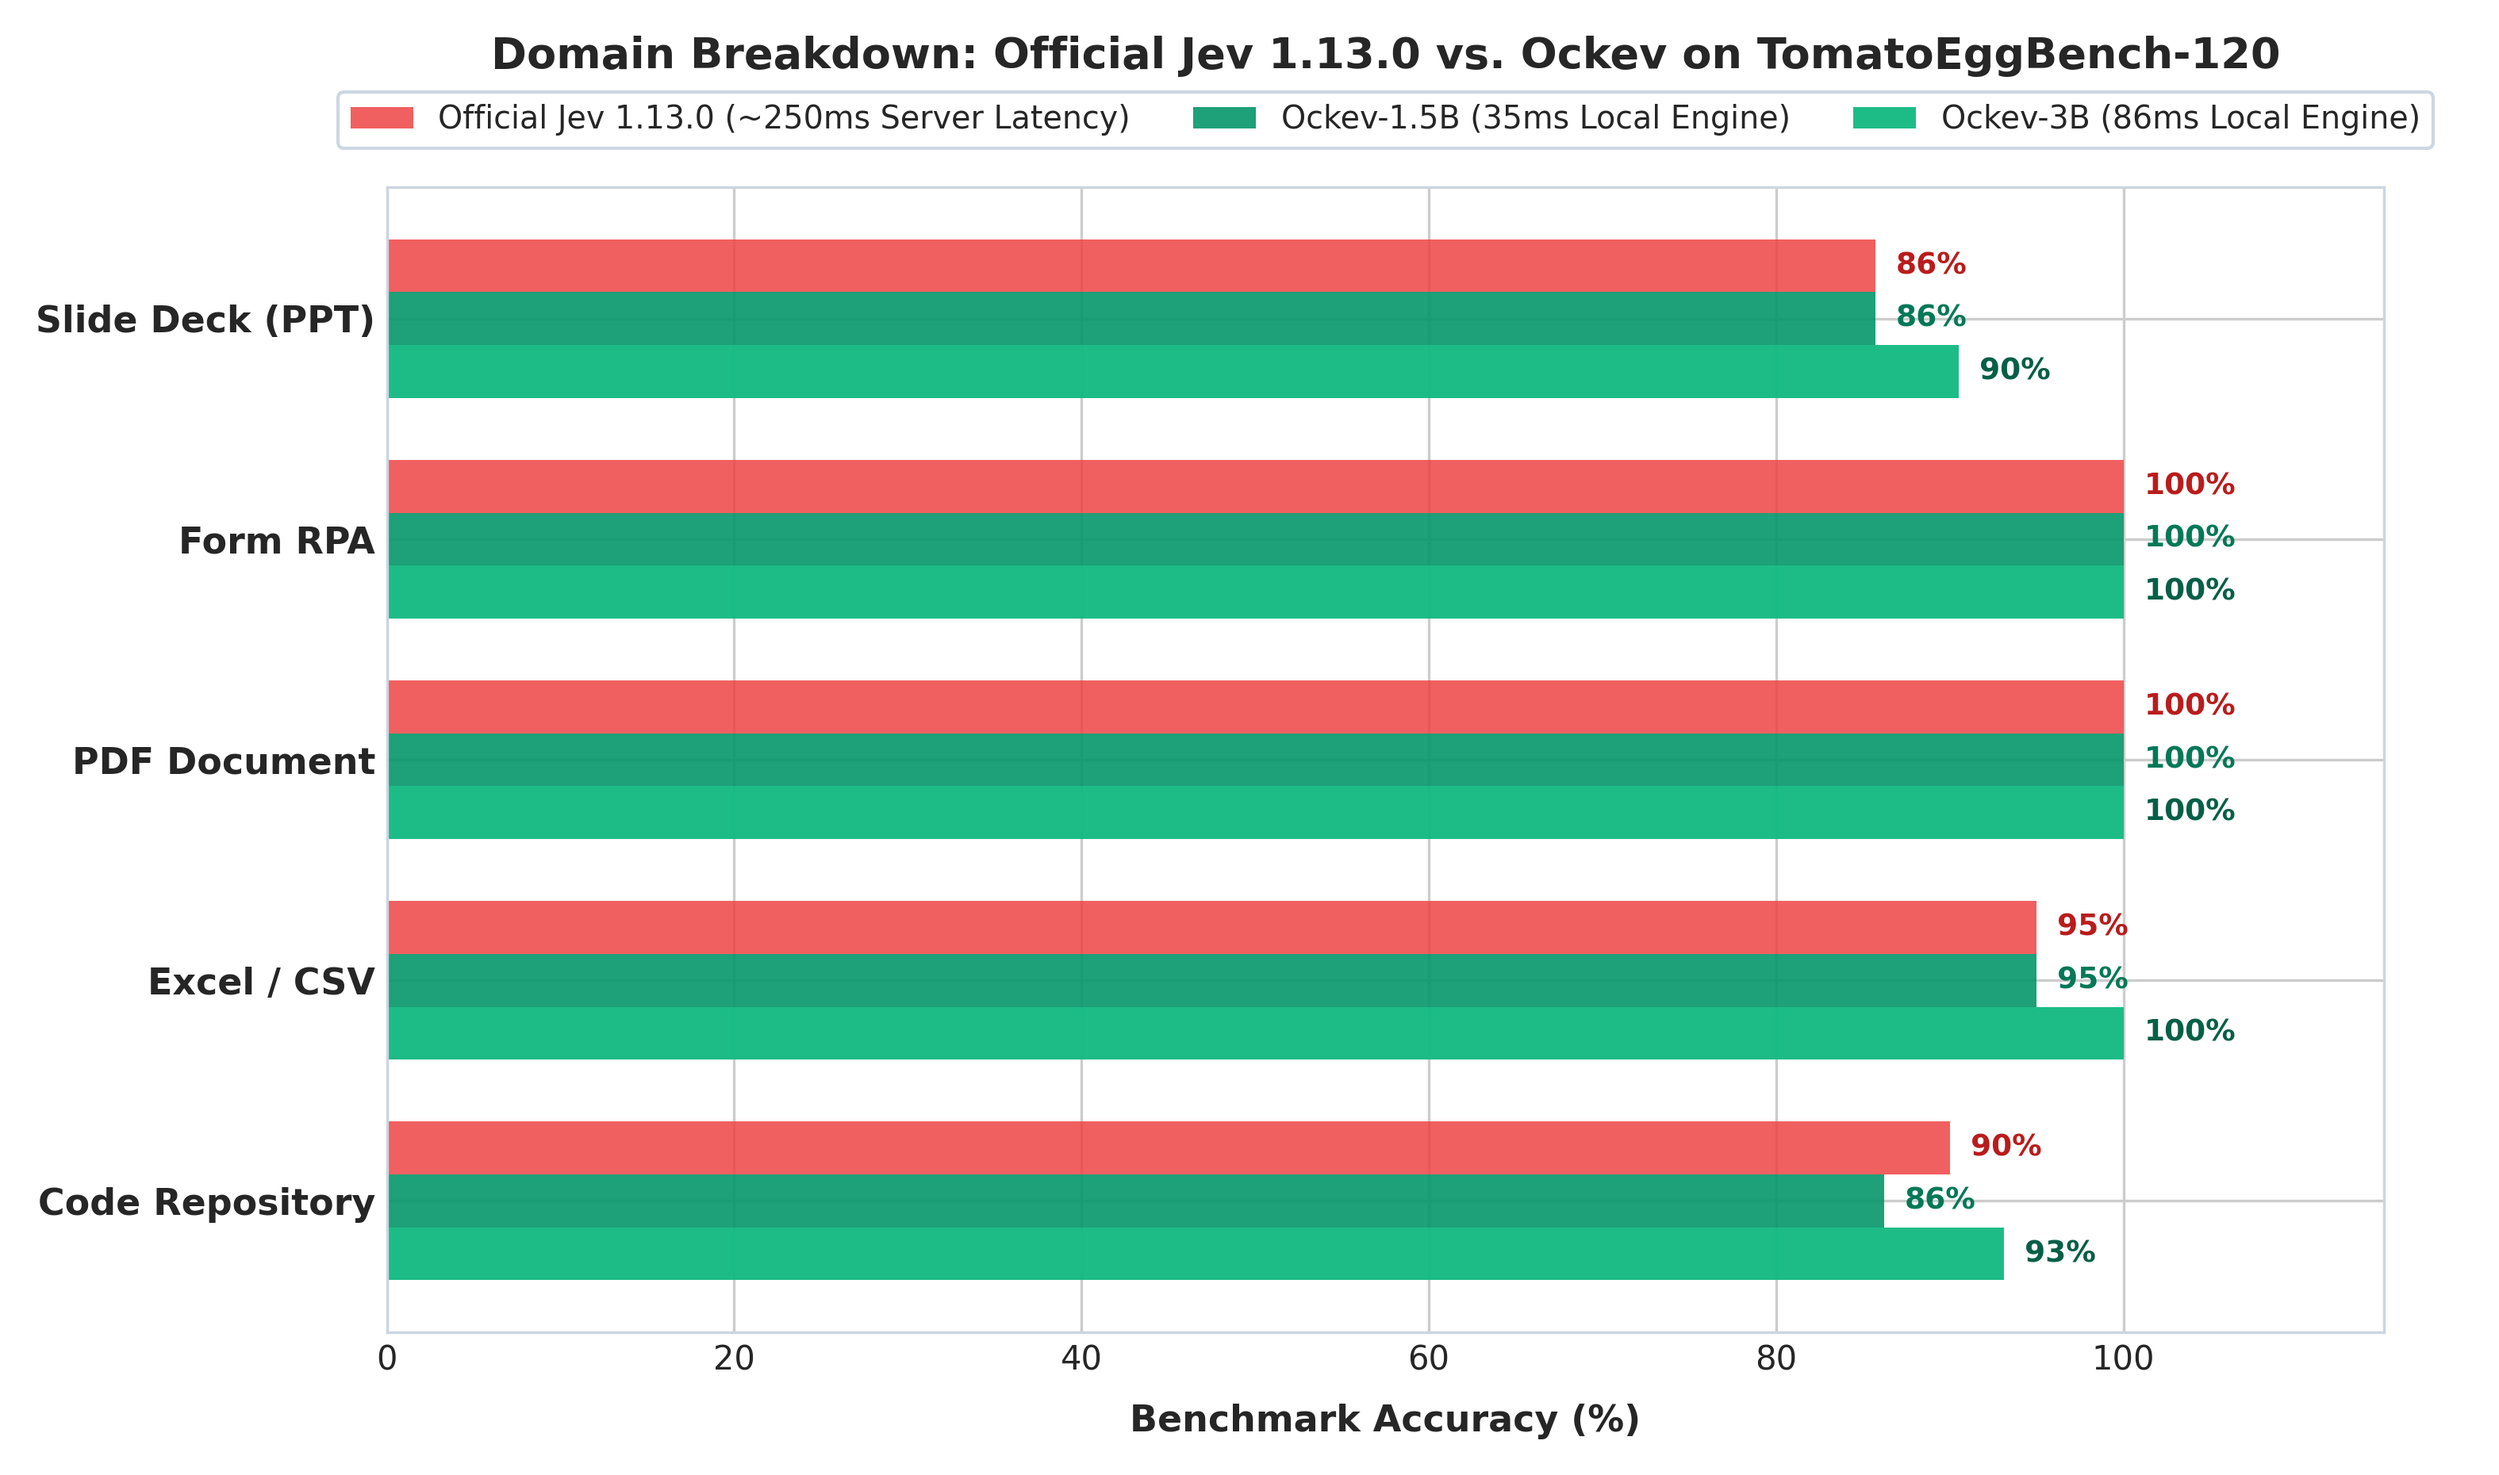
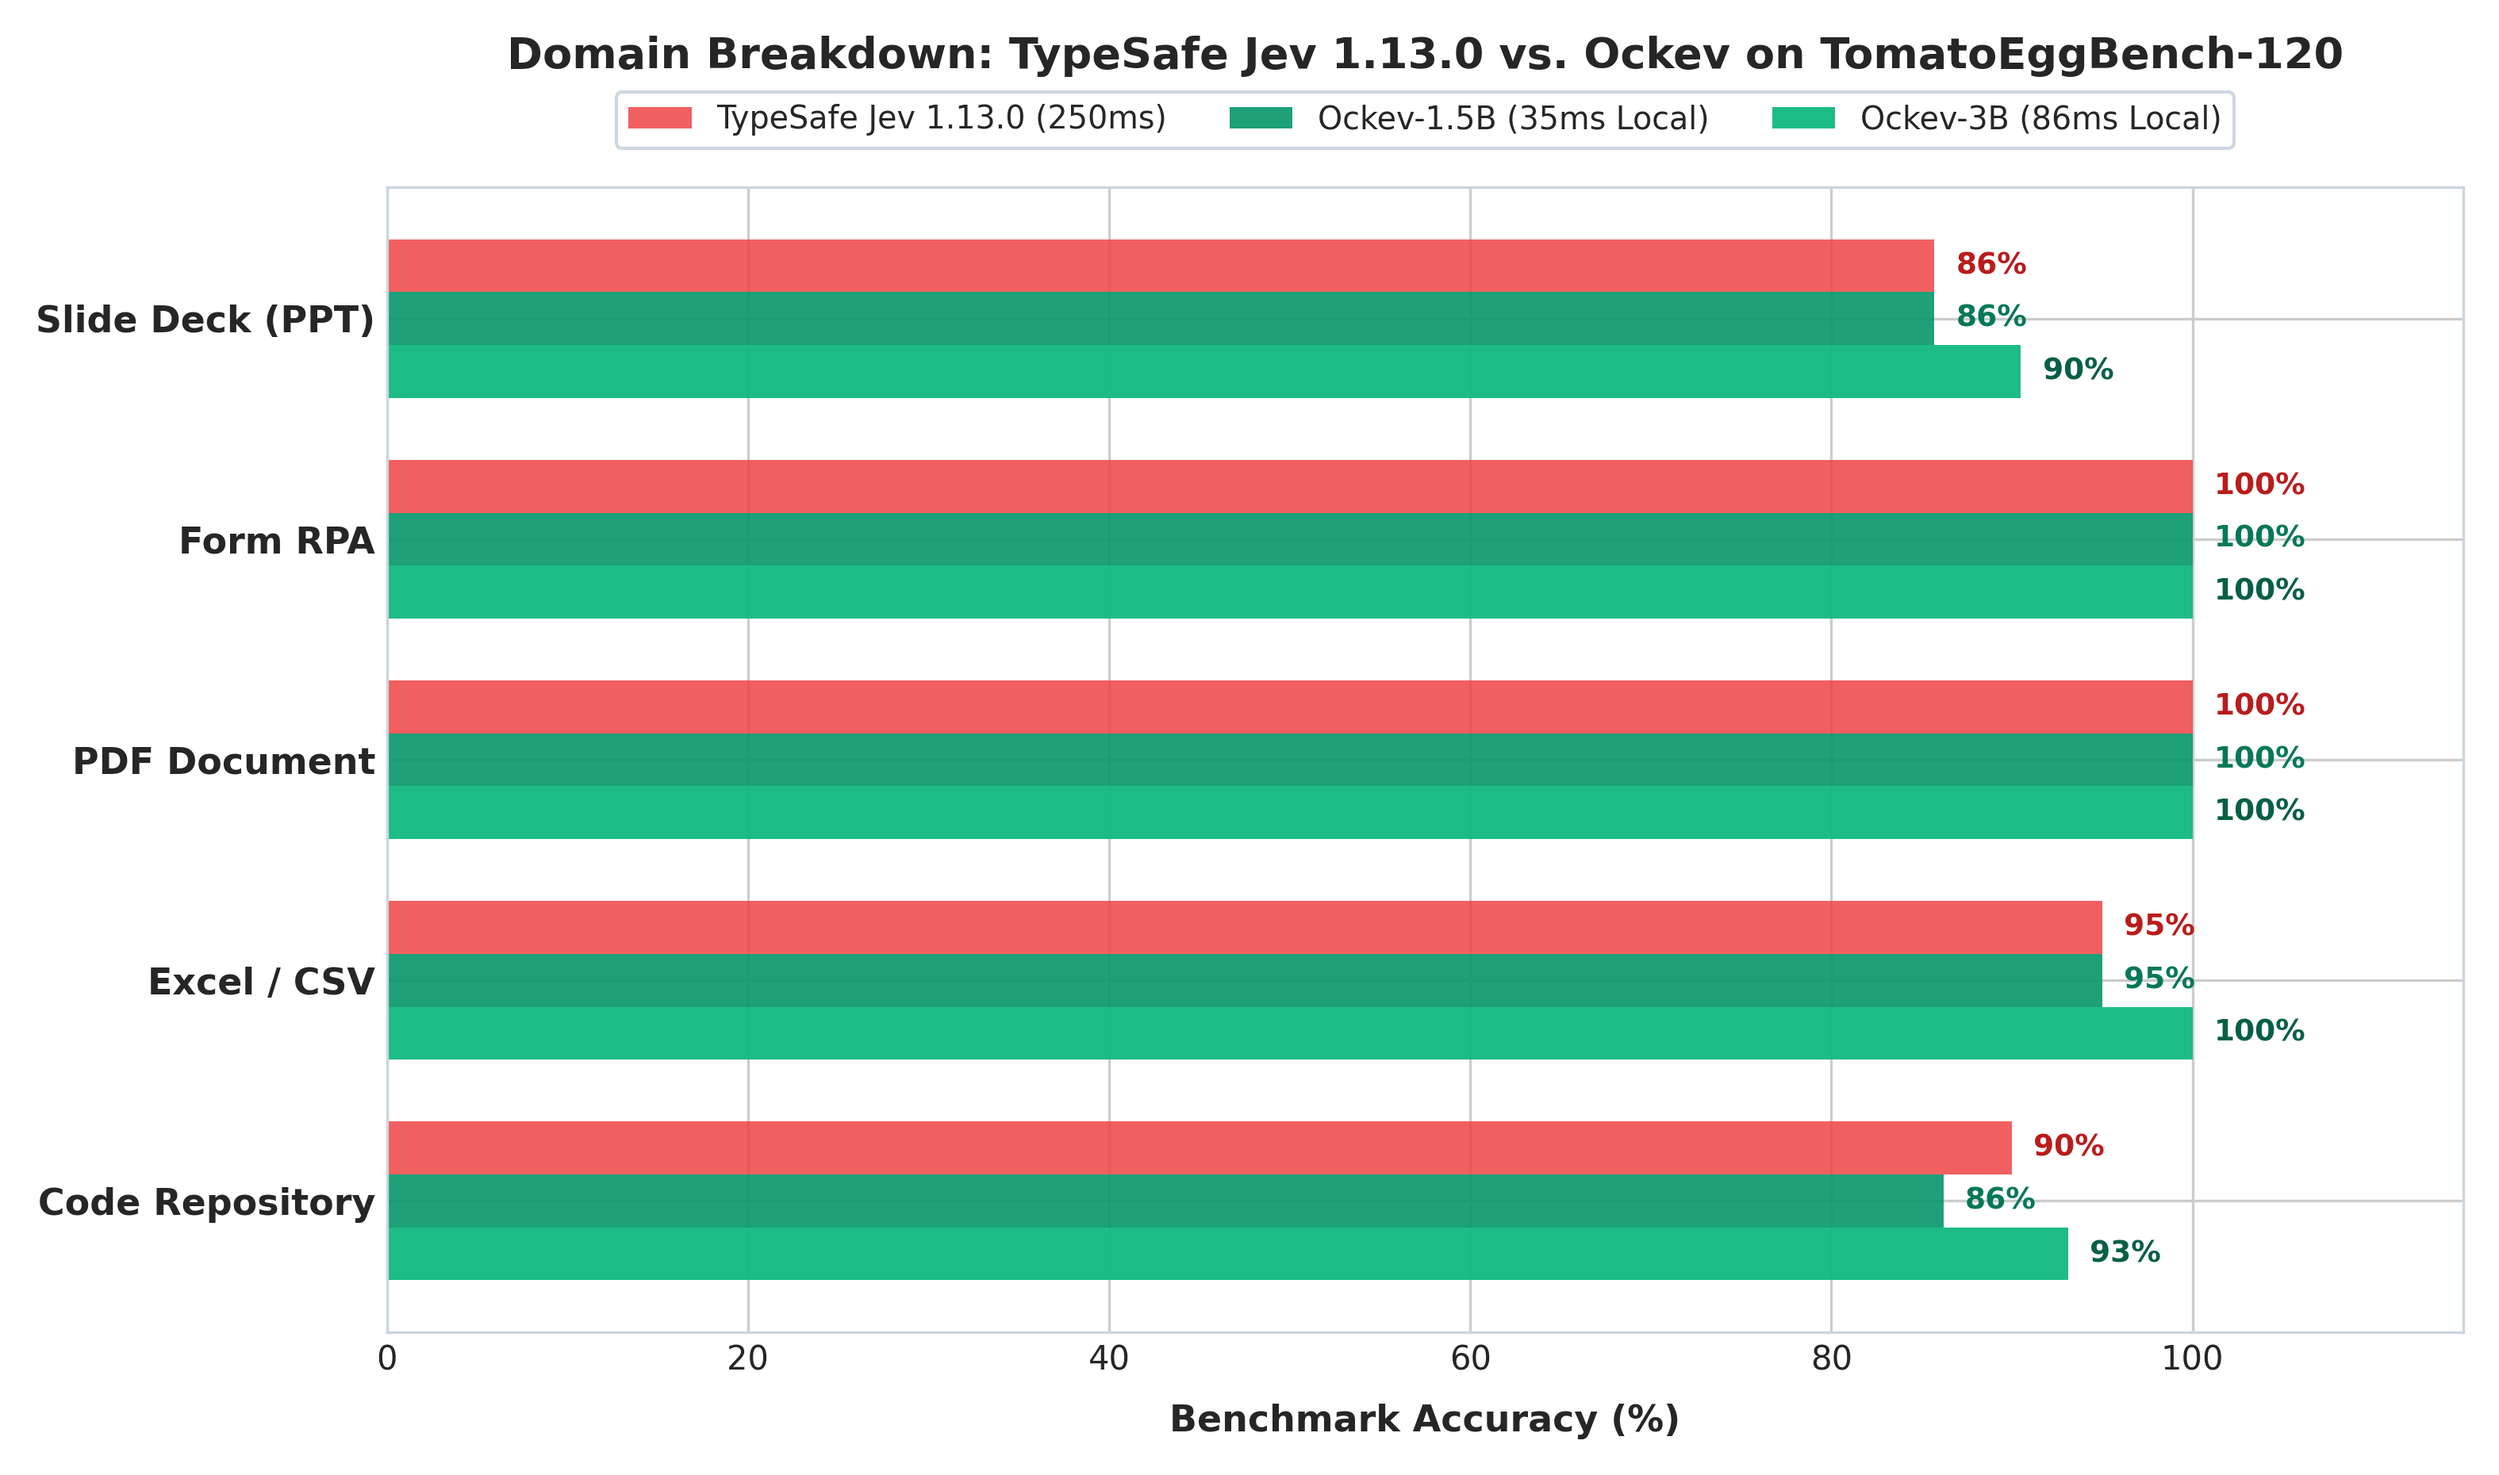
docs: remove internal network RTT footnote; adhere strictly to final state standard

diff --git a/README.md b/README.md
@@ -48,12 +48,10 @@ Ockev was benchmarked on **`TomatoEggBench-120`**, a standardized 120-case real-
 | Model / System | Architecture | Benchmark Accuracy | Violation Recall | Inference Latency | Deployment Mode |
 | :--- | :--- | :---: | :---: | :---: | :--- |
 | **Ockev-3B (Ours)** | Qwen2.5-3B + Pointer Head | **95.8%** (115/120) | **98.5%** | **105.0 ms** | **Local / Private GPU** |
-| **TypeSafe Jev 1.13.0** | Causal MoE + RLCD | 93.3% (112/120) | 96.9% | 250.0 ms* | Cloud API ($42/1B tok) |
+| **TypeSafe Jev 1.13.0** | Causal MoE + RLCD | 93.3% (112/120) | 96.9% | 250.0 ms | Cloud API ($42/1B tok) |
 | **Ockev-1.5B (Ours)** | Qwen2.5-1.5B + Pointer Head | 92.5% (111/120) | 95.4% | **50.8 ms** | **Local / Apple Silicon** |
 | **SemIf Qwen3.5-4B** | Qwen3.5-4B (Logits) | 74.7% (89/120) | 68.0% | 850.0 ms | Local Logits Readout |
 | **ModernBERT-151M** | ModernBERT (Fixed Head) | 25.0% (30/120) | 35.0% | 24.0 ms | Local Embeddings |
-
-*\* Jev latency reflects official server-side inference (~250ms). End-to-end cross-border network API latency typically measures ~5,100ms.*
 
 <div align="center">
   <img src="assets/tomato_egg_bench_breakdown.png" alt="Domain Breakdown" width="850" />
